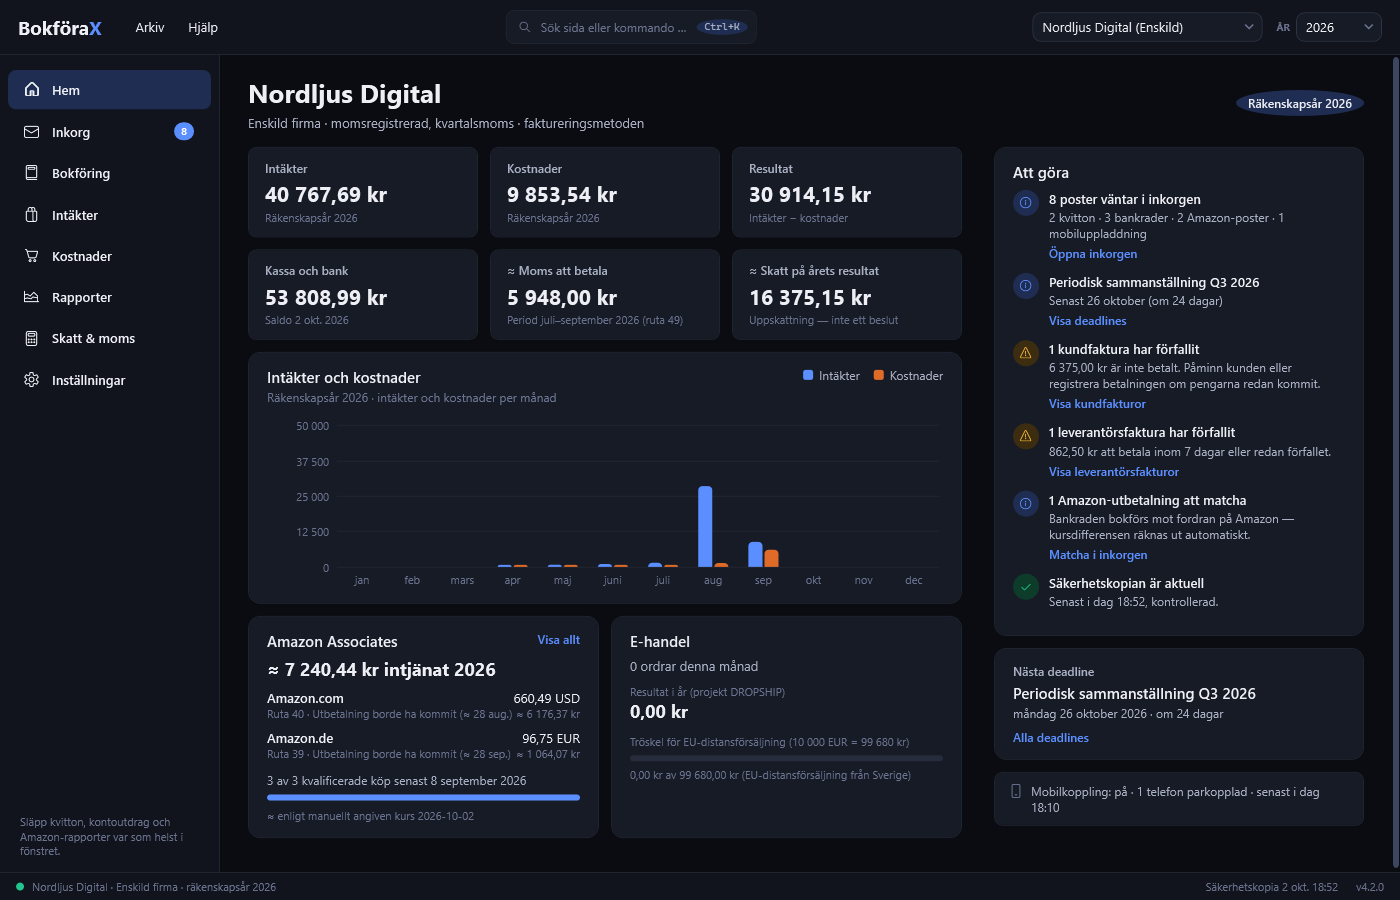
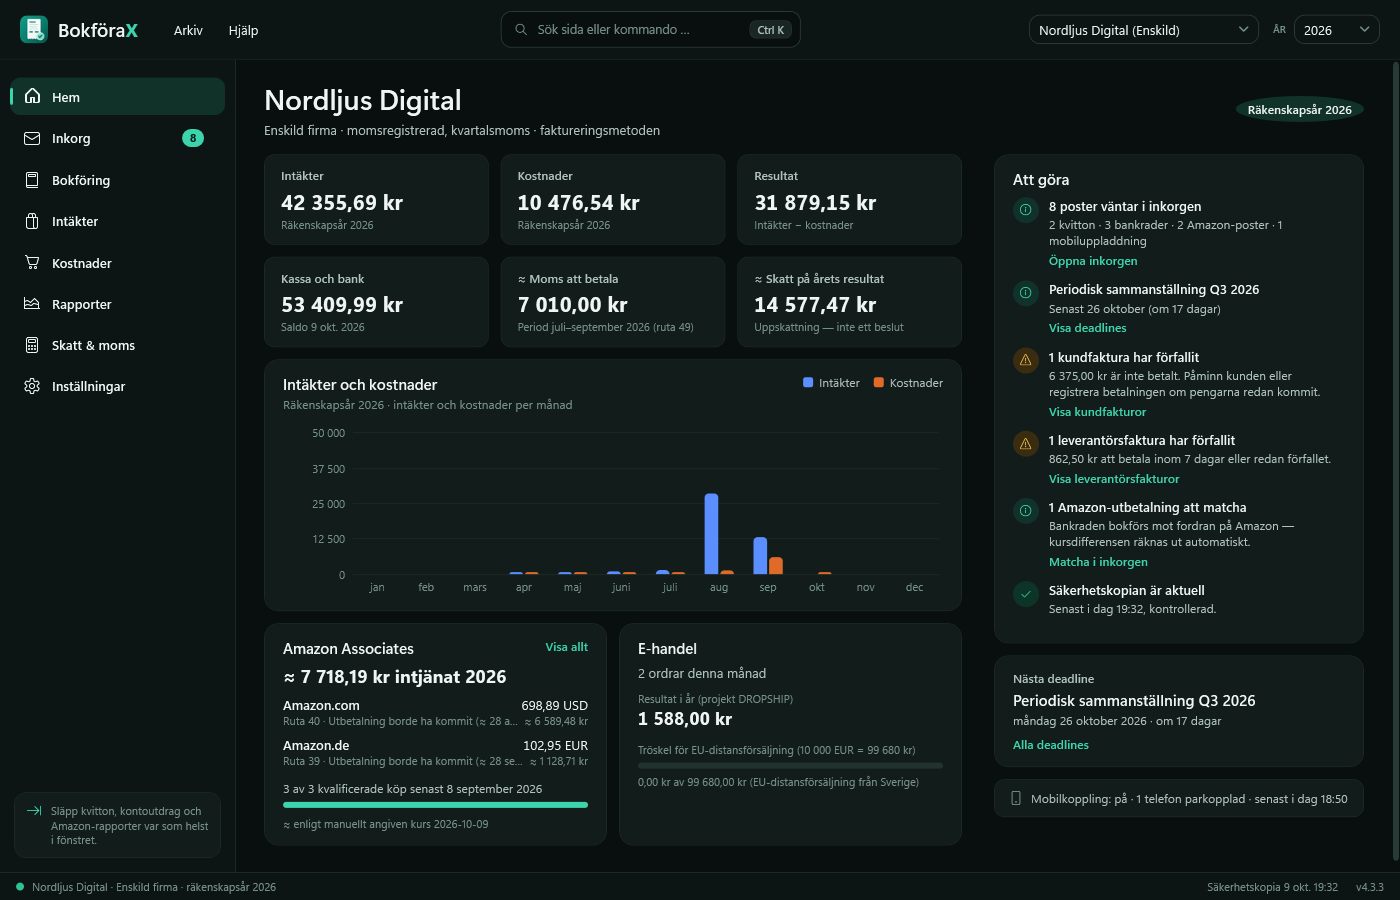
BokföraX 4.4.0: ny design Smaragd, nya skärmbilder och kontrollsumma

diff --git a/README.md b/README.md
@@ -59,7 +59,7 @@ Anthropic med **din egen** API-nyckel.
 Säkerhetskopiorna hamnar i samma mapp, och du kan välja en extra plats, till exempel ett USB-minne. Avinstallerar du
 programmet ligger bokföringen kvar.
 
-**Skannad efter virus.** Varje installationsfil skannas med Microsoft Defender innan den läggs upp här (4.3.3: inga
+**Skannad efter virus.** Varje installationsfil skannas med Microsoft Defender innan den läggs upp här (4.4.0: inga
 fynd). 4.2.0 kontrollerades också på VirusTotal (51 av 52 rena, ett maskininlärningsfalsklarm — se nedan).
 
 **Säkerhetsgranskad.** Programmet har granskats av flera oberoende granskningar med fokus på säkerhet (inloggningar,
@@ -80,7 +80,7 @@ varningen inte visas.
 
 **Är filen säker?** Det är förståeligt att vara försiktig med en .exe-fil från nätet. Så här kan du kontrollera den:
 
-- **Antivirus:** installationsfilen för 4.3.3 är skannad med Microsoft Defender (virusdefinitioner 1.459.636.0) utan
+- **Antivirus:** installationsfilen för 4.4.0 är skannad med Microsoft Defender (virusdefinitioner 1.459.636.0) utan
   fynd. Du kan själv högerklicka på filen → **Skanna med Microsoft Defender**.
 - **VirusTotal** (ett 50-tal antivirusprogram på en gång): **51 av 52 hittar ingenting** —
   [se resultatet för 4.2.0](https://www.virustotal.com/gui/file/f5d04367fe20d6c4db36db44d3642eabdf22b3724f14cd68e2bab76f5f8ca04e). Ett enda program (Trapmine) ger en
@@ -90,8 +90,8 @@ varningen inte visas.
   den packar bara upp sina egna installationsfiler. De 100 programfiler som ingår (bland annat Microsofts .NET-filer)
   har 0 träffar. Utvecklarens kommentar om filen finns under
   [Community på VirusTotal](https://www.virustotal.com/gui/file/f5d04367fe20d6c4db36db44d3642eabdf22b3724f14cd68e2bab76f5f8ca04e/community).
-- **Att filen är oförändrad:** kör i PowerShell `Get-FileHash .\BokforaX-Setup-4.3.3.exe` — svaret ska vara
[1 lines of base64/hex data omitted]
+- **Att filen är oförändrad:** kör i PowerShell `Get-FileHash .\BokforaX-Setup-4.4.0.exe` — svaret ska vara
[1 lines of base64/hex data omitted]
 - **Hämta bara härifrån.** BokföraX sprids inte någon annanstans.
 
 **Inget demoläge ännu.** Det finns inget färdigt påhittat företag att prova med. Vill du testa utan dina riktiga
